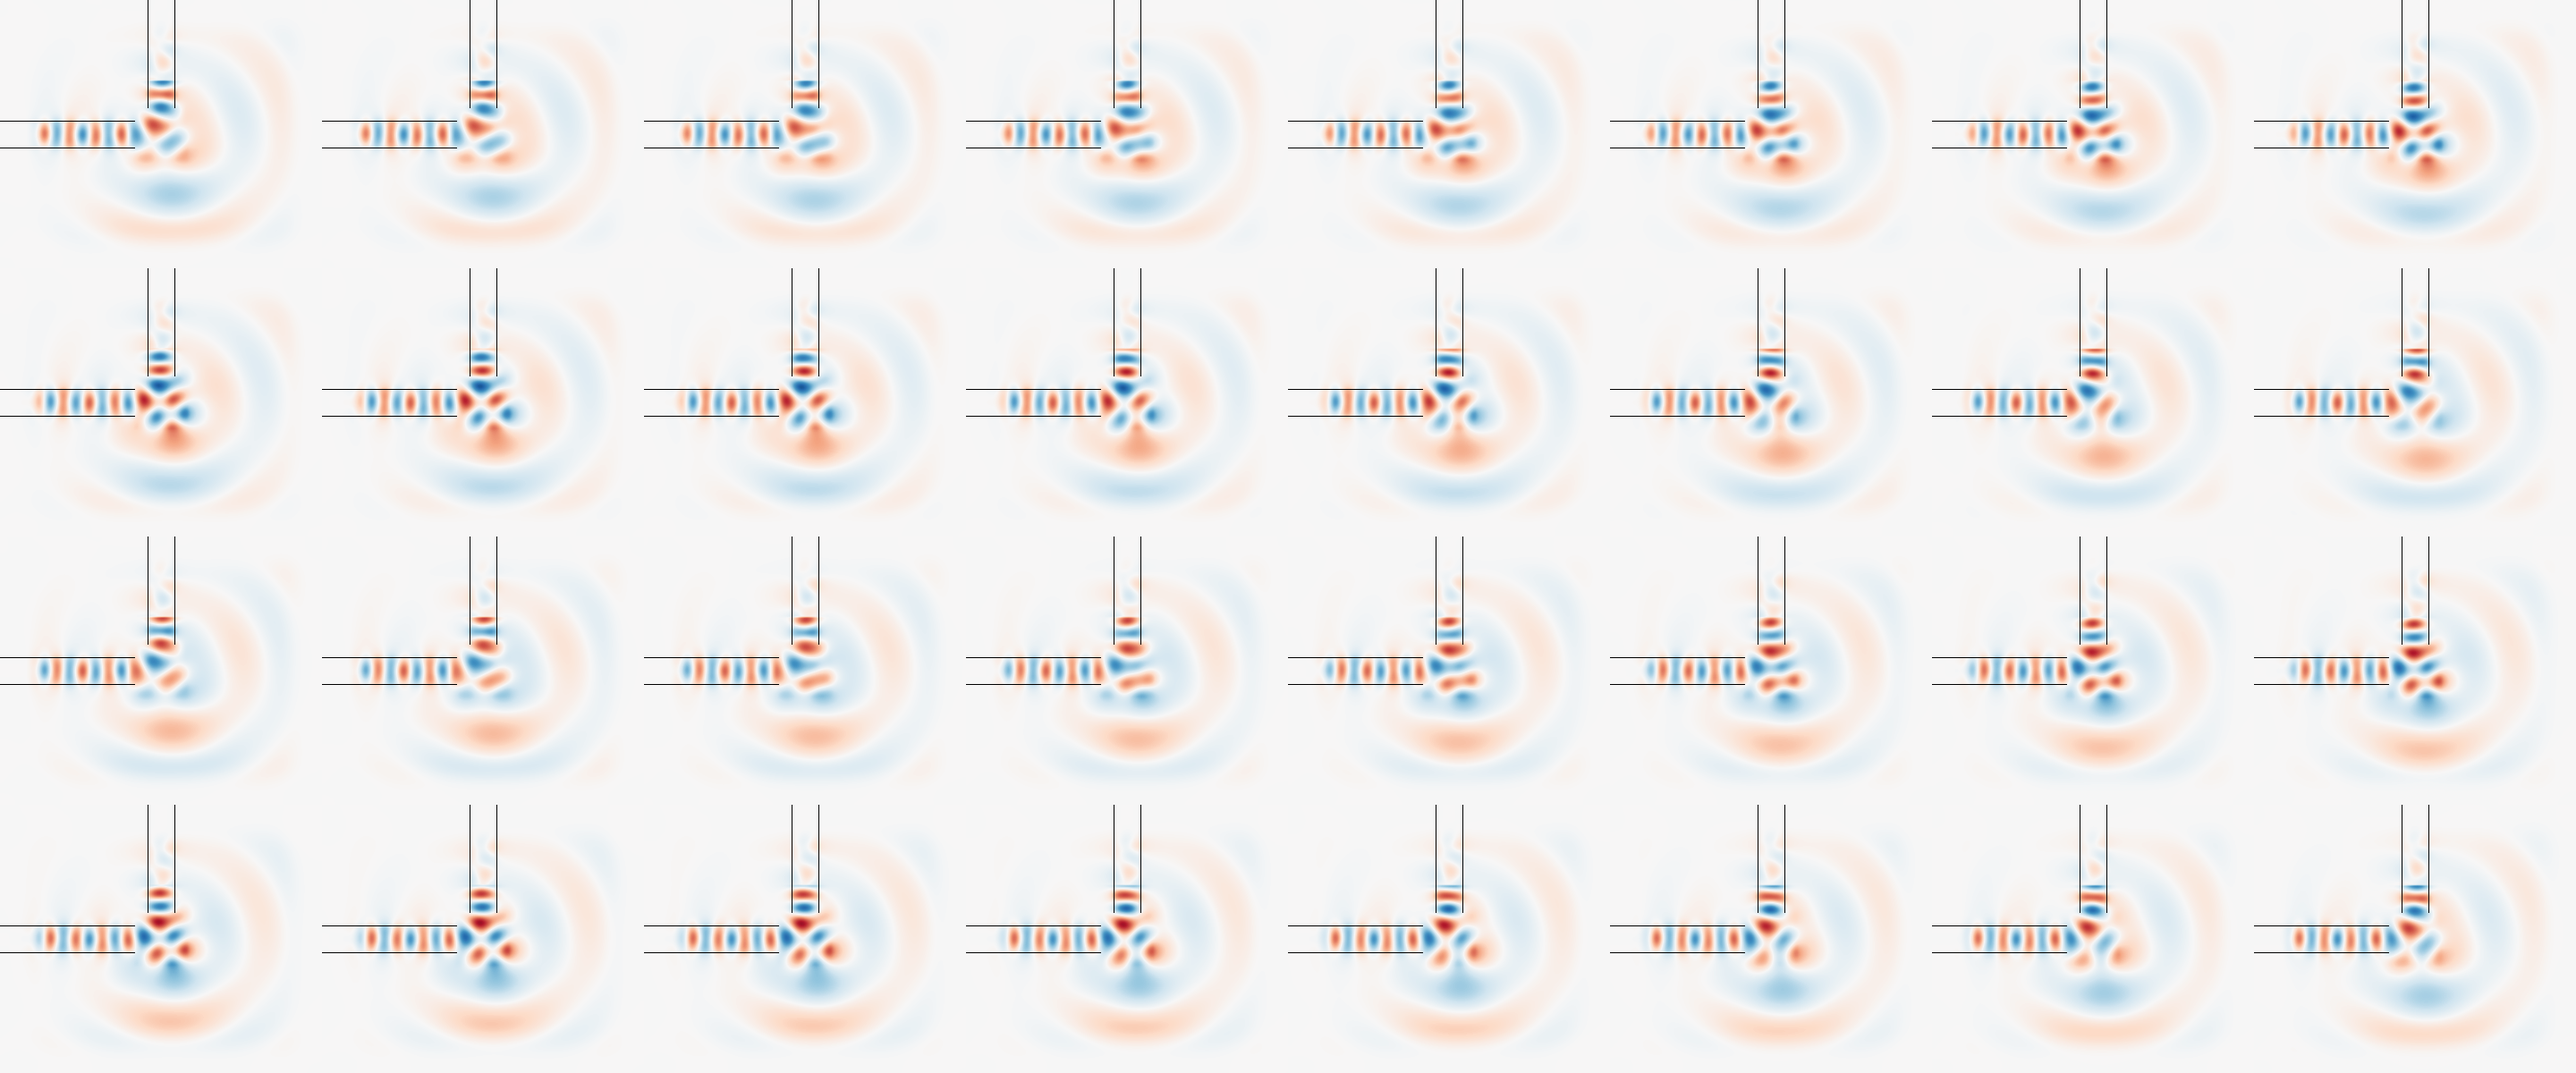
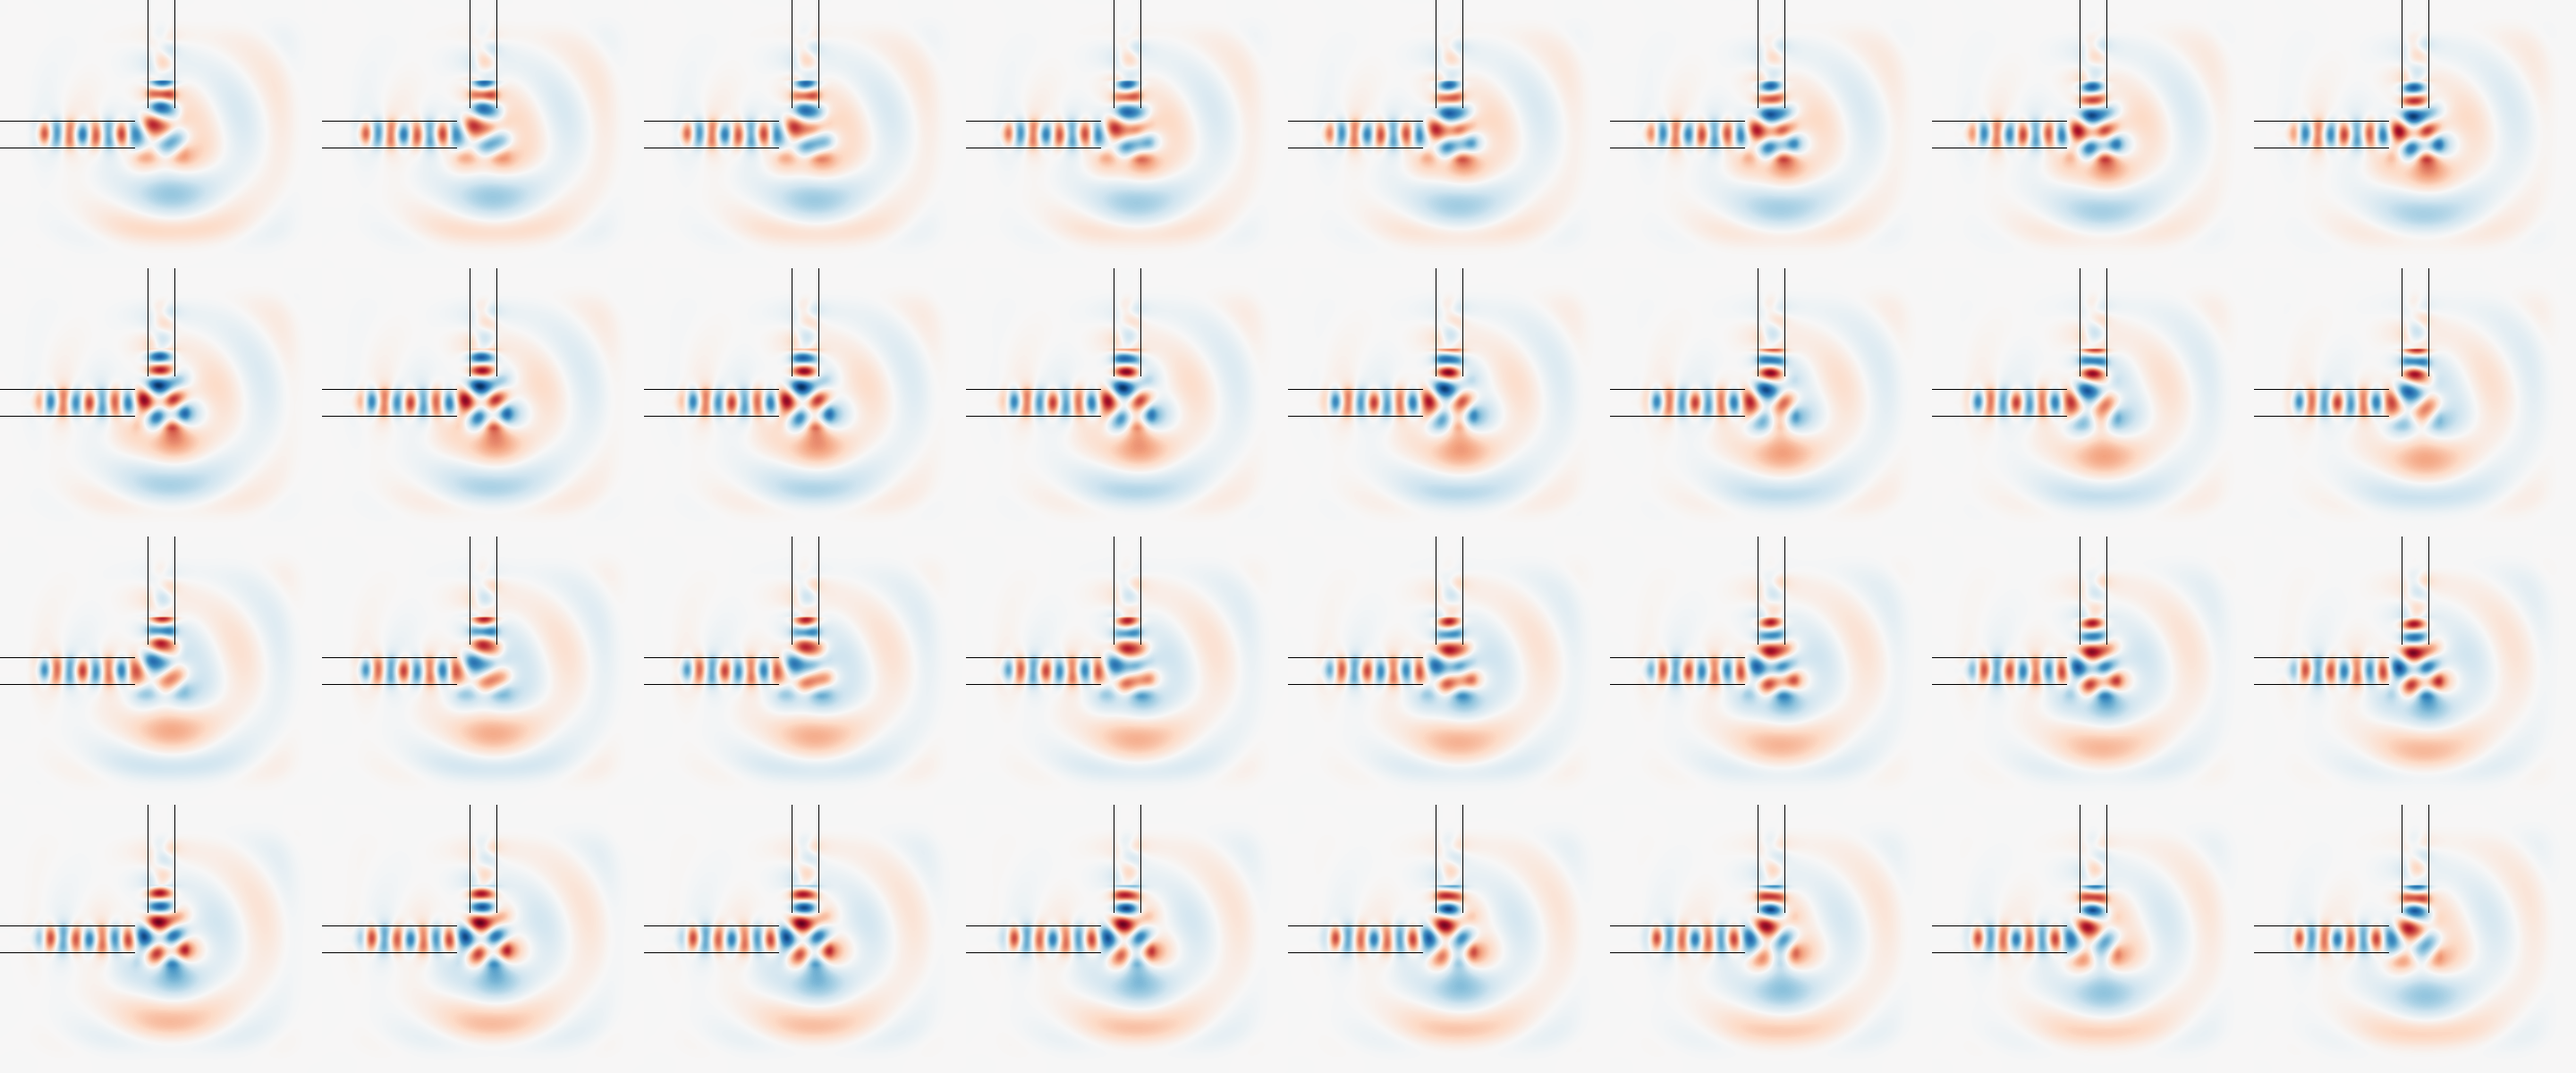
Keep early adjoint fields visible during phase playback
Normalize each recorded adjoint calculation by its own complex field peak,
with a fixed symmetric scale shared by its scene, all phases and capture.
Explain the relative scale in the Korean and English adjoint scene notes.

Constraint: Preserve raw fields, objective values, gradients, densities and the common forward scale.
Rejected: Normalize every phase independently | It would hide physical amplitude changes within a phase cycle.
Confidence: high
Scope-risk: narrow
Directive: Adjoint colors compare relative amplitude within each iteration; use recorded limits for absolute comparisons.
Tested: Six raw hashes and numerical records; 192 adjoint phase frames from raw fields; six exact scene/capture pairs; unchanged forward and fallback assets; four bilingual cache URL cases; JavaScript syntax; whitespace; independent code review.
Not-tested: No new Meep solve; validated original complex arrays were reused. Hosted build and visual checks follow publication.

diff --git a/assets/inverse-story.js b/assets/inverse-story.js
@@ -267,7 +267,7 @@
       : stage === 3 ? time < 16.2 ? tr("저장한 두 복소장을 겹쳐 민감도를 구합니다.", "Overlap the two saved complex fields to compute sensitivity.") : tr("픽셀마다 바꿀 방향이 gradient로 남습니다.", "The gradient gives an update direction for every pixel.")
       : densityReady ? time < 23.2 ? tr("Gradient를 받아 설계 영역의 밀도를 바꿉니다.", "Use the gradient to update the density in the design region.") : tr("갱신한 구조의 forward DFT를 다시 확인합니다.", "Check the forward DFT of the updated geometry.") : tr("최종 밀도를 불러오지 못했습니다. 계산 결과 링크를 확인하세요.", "The final density could not be loaded. Check the calculation result links.");
     text("#scene-summary", finished ? tr("저장된 계산이 끝났습니다. 마지막 갱신 구조와 forward DFT를 유지합니다.", "The saved calculations are complete. Keeping the final updated geometry and forward DFT.") : summary);
-    text("#scene-note", updating ? tr("현재 밀도 → 실제 갱신 밀도 · 다음 계산의 시작 구조", "Current density → computed updated density · Starting geometry for the next calculation") : tr("복소 DFT의 정상상태 위상 재생 · 촬영본은 위상 0°에 고정", "Steady-state phase playback of complex DFT · Snapshots fixed at phase 0°"));
+    text("#scene-note", updating ? tr("현재 밀도 → 실제 갱신 밀도 · 다음 계산의 시작 구조", "Current density → computed updated density · Starting geometry for the next calculation") : adjoint ? tr("Adjoint는 반복별 최대 진폭으로 정규화 · 촬영본은 위상 0°에 고정", "Adjoint normalized to each iteration's peak · Snapshots fixed at phase 0°") : tr("복소 DFT의 정상상태 위상 재생 · 촬영본은 위상 0°에 고정", "Steady-state phase playback of complex DFT · Snapshots fixed at phase 0°"));
     progress.min = staticFrame ? "1" : "0";
     progress.max = staticFrame ? "4" : String(duration);
     progress.step = staticFrame ? "1" : ".01";

diff --git a/code/highres_bend/render_iterations.py b/code/highres_bend/render_iterations.py
@@ -39,8 +39,8 @@ def main():
     result = json.loads((args.raw/"result.json").read_text())
     datasets = [dict(np.load(args.raw/r["raw"])) for r in result["records"]]
     forward_limit = max(float(np.max(np.abs(d[f"{p}_full_Ez"]))) for d in datasets for p in ("forward","updated_forward"))
-    adjoint_limit = max(float(np.max(np.abs(d["adjoint_full_Ez"]))) for d in datasets)
-    manifest = {**result, "records": [], "grid_shape": [61,61], "gradient_shape": [61,61], "phase_frame_count":32, "phase_columns":8, "phase_rows":4, "scene_pixels":[360,300], "forward_limit":forward_limit, "adjoint_limit":adjoint_limit, "phase_convention":"Re(Ez * exp(-i * 2*pi*k/32)); saved steady-state complex DFT, not transient propagation", "density_indexing":"x*Ny+y; 61 by 61; no threshold or binarization", "colormap":"RdBu", "normalization":"Common symmetric forward scale across all before/after states; separate common symmetric adjoint scale", "full_extent_um":[-3,3,-2.5,2.5], "design_extent_um":[-.5,.5,-.5,.5]}
+    adjoint_global_peak = max(float(np.max(np.abs(d["adjoint_full_Ez"]))) for d in datasets)
+    manifest = {**result, "records": [], "grid_shape": [61,61], "gradient_shape": [61,61], "phase_frame_count":32, "phase_columns":8, "phase_rows":4, "scene_pixels":[360,300], "forward_limit":forward_limit, "adjoint_global_peak":adjoint_global_peak, "phase_convention":"Re(Ez * exp(-i * 2*pi*k/32)); saved steady-state complex DFT, not transient propagation", "density_indexing":"x*Ny+y; 61 by 61; no threshold or binarization", "colormap":"RdBu", "normalization":"Common symmetric forward scale across all before/after states; adjoint uses its own complex peak per iteration, fixed across every phase, scene and capture", "full_extent_um":[-3,3,-2.5,2.5], "design_extent_um":[-.5,.5,-.5,.5]}
     checks=[]
     previous=None
     previous_field=None
@@ -65,7 +65,9 @@ def main():
             assert field_repeat_error < 1e-8
         previous_field=raw["updated_forward_full_Ez"]
         previous=after
-        row={**record,"x_before":before.tolist(),"x_after":after.tolist(),"gradient":raw["gradient"].tolist(),"gradient_shape":[61,61],"grid_shape":[61,61],"raw_sha256":hashlib.sha256((args.raw/record["raw"]).read_bytes()).hexdigest()}
+        adjoint_limit = float(np.max(np.abs(raw["adjoint_full_Ez"])))
+        assert np.isfinite(adjoint_limit) and adjoint_limit > 0
+        row={**record,"x_before":before.tolist(),"x_after":after.tolist(),"gradient":raw["gradient"].tolist(),"gradient_shape":[61,61],"grid_shape":[61,61],"raw_sha256":hashlib.sha256((args.raw/record["raw"]).read_bytes()).hexdigest(),"adjoint_limit":adjoint_limit}
         check={"iteration":i,"monotonic":True,"density_chain_exact":True,"projected_gradient_update_exact":True,"repeated_geometry_forward_field_matches":True,"field_repeat_relative_linf_error":field_repeat_error,"scenes":{}}
         for prefix,stem in (("forward","forward"),("adjoint","adjoint"),("updated_forward","updated-forward")):
             field=raw[f"{prefix}_full_Ez"]
@@ -113,7 +115,7 @@ def main():
     (args.out/"manifest.json").write_text(json.dumps(manifest,indent=2))
     validation={"passed":True,"iterations":len(checks),"checks":checks,"finite_difference_gate":result["records"][1]["finite_difference_gate"],"all_physical_runs_before_time_cap":all(all(t<1000 for t in r["simulation_times"].values()) for r in result["records"])}
     (args.out/"validation.json").write_text(json.dumps(validation,indent=2))
-    print(json.dumps({"passed":True,"iterations":len(checks),"manifest":str(args.out/"manifest.json"),"forward_limit":forward_limit,"adjoint_limit":adjoint_limit}))
+    print(json.dumps({"passed":True,"iterations":len(checks),"manifest":str(args.out/"manifest.json"),"forward_limit":forward_limit,"adjoint_limits":[r["adjoint_limit"] for r in manifest["records"]]}))
 
 
 if __name__ == "__main__":

diff --git a/DESIGN.md b/DESIGN.md
@@ -65,7 +65,9 @@ Native transport includes play/pause, replay, speed, labeled seeking and four st
 
 ### DFT propagation during capture
 
-Scene, phase sprites, captures and hero use the original opaque RdBu field maps. Each saved capture is the matching phase-zero scene crop. Keep image and JSON requests versioned with their player script so returning readers receive a coherent bundle. Raw complex fields, physical coordinates, phase convention, symmetric limits and objective values remain unchanged. Metalens panels E/F use linear hot intensity with their existing individual peak normalization, while the shared-normalization linecut is unchanged. This is the original ideal PB scalar angular-spectrum model, not FDTD.
+Scene, phase sprites, captures and hero use the original opaque RdBu field maps. Each saved capture is the matching phase-zero scene crop. Keep image and JSON requests versioned with their player script so returning readers receive a coherent bundle. Raw complex fields, physical coordinates, phase convention and objective values remain unchanged. Metalens panels E/F use linear hot intensity with their existing individual peak normalization, while the shared-normalization linecut is unchanged. This is the original ideal PB scalar angular-spectrum model, not FDTD.
+
+Adjoint visibility correction: normalize the six recorded adjoint calculations separately by each calculation's complex full-field peak, recorded in `records[].adjoint_limit`. Keep this symmetric limit fixed for its scene, all phase frames and capture. State the relative normalization in the adjoint scene note; colors cannot compare absolute amplitudes across iterations or with forward. Preserve the common forward limit, numerical fields, gradients, densities and objectives.
 Forward and adjoint display32 native phase samples of Re(Ez exp(-iφ)), with one fixed symmetric ±max|Ez| range per computation. This is steady-state DFT phase playback. The existing apparatus and saved-map layout stay intact. Each six-second field stage plays four1.5-second phase cycles. At its midpoint (global3/9s), phase0 is photographed: the copy holds for0.28s, then flies to its saved tile while the original phase motion continues through both waveguides and the design region. The saved copy stays at phase0 for gradient presentation. Frames use a deterministic8×4 sprite, driven by the same GSAP playhead as the shutter, so pause, speed, reverse seeking and offscreen suspension also control the field. Reduced motion, unavailable GSAP or failed sprite decoding retain the phase0 field and manual stages. The phase label states normal steady state; no wavefront arrival or turn-on delay is inferred from DFT data.
 
 ## 7. Guided lessons: parts 01 and 09

diff --git a/code/highres_bend/README.md b/code/highres_bend/README.md
@@ -43,4 +43,4 @@ Each accepted density is passed unchanged into the following native forward and 
 
 A new centered finite difference at the second starting geometry agrees with its adjoint directional derivative to relative error 3.084e-6. Rendering verifies exact density continuity, the projected update, physical sample coordinates, all 32 stored phase frames, exact phase-zero capture crops, and independently recomputed forward-field continuity (maximum relative error 1.244e-11). All physical runs stopped before the simulation time cap.
 
-All six before/after forward scenes and captures share the same symmetric color limit, 20.3186982670; all adjoint scenes and captures share a separate common limit, 0.01794171218. The renderer only uses saved complex DFT arrays. It preserves black fixed-port contours and uses grayscale for the continuous 61x61 density. Displayed gradients use their own symmetric limits. Source and raw-array SHA256 values are recorded in the manifest; `validation.json` records numerical and rendering checks.
+All six before/after forward scenes and captures share the same symmetric color limit, 20.3186982670. Each adjoint iteration instead uses its own `max(abs(complex Ez))`, recorded as `records[].adjoint_limit`, so early weak fields remain visible. That limit stays fixed throughout all 32 phases and the matching scene/capture; adjoint colors show relative amplitude within an iteration, not absolute amplitude comparisons across iterations or against forward. The original global adjoint peak is retained as `adjoint_global_peak`. The renderer only uses saved complex DFT arrays. It preserves black fixed-port contours and uses grayscale for the continuous 61x61 density. Displayed gradients use their own symmetric limits. Source and raw-array SHA256 values are recorded in the manifest; `validation.json` records numerical and rendering checks.
